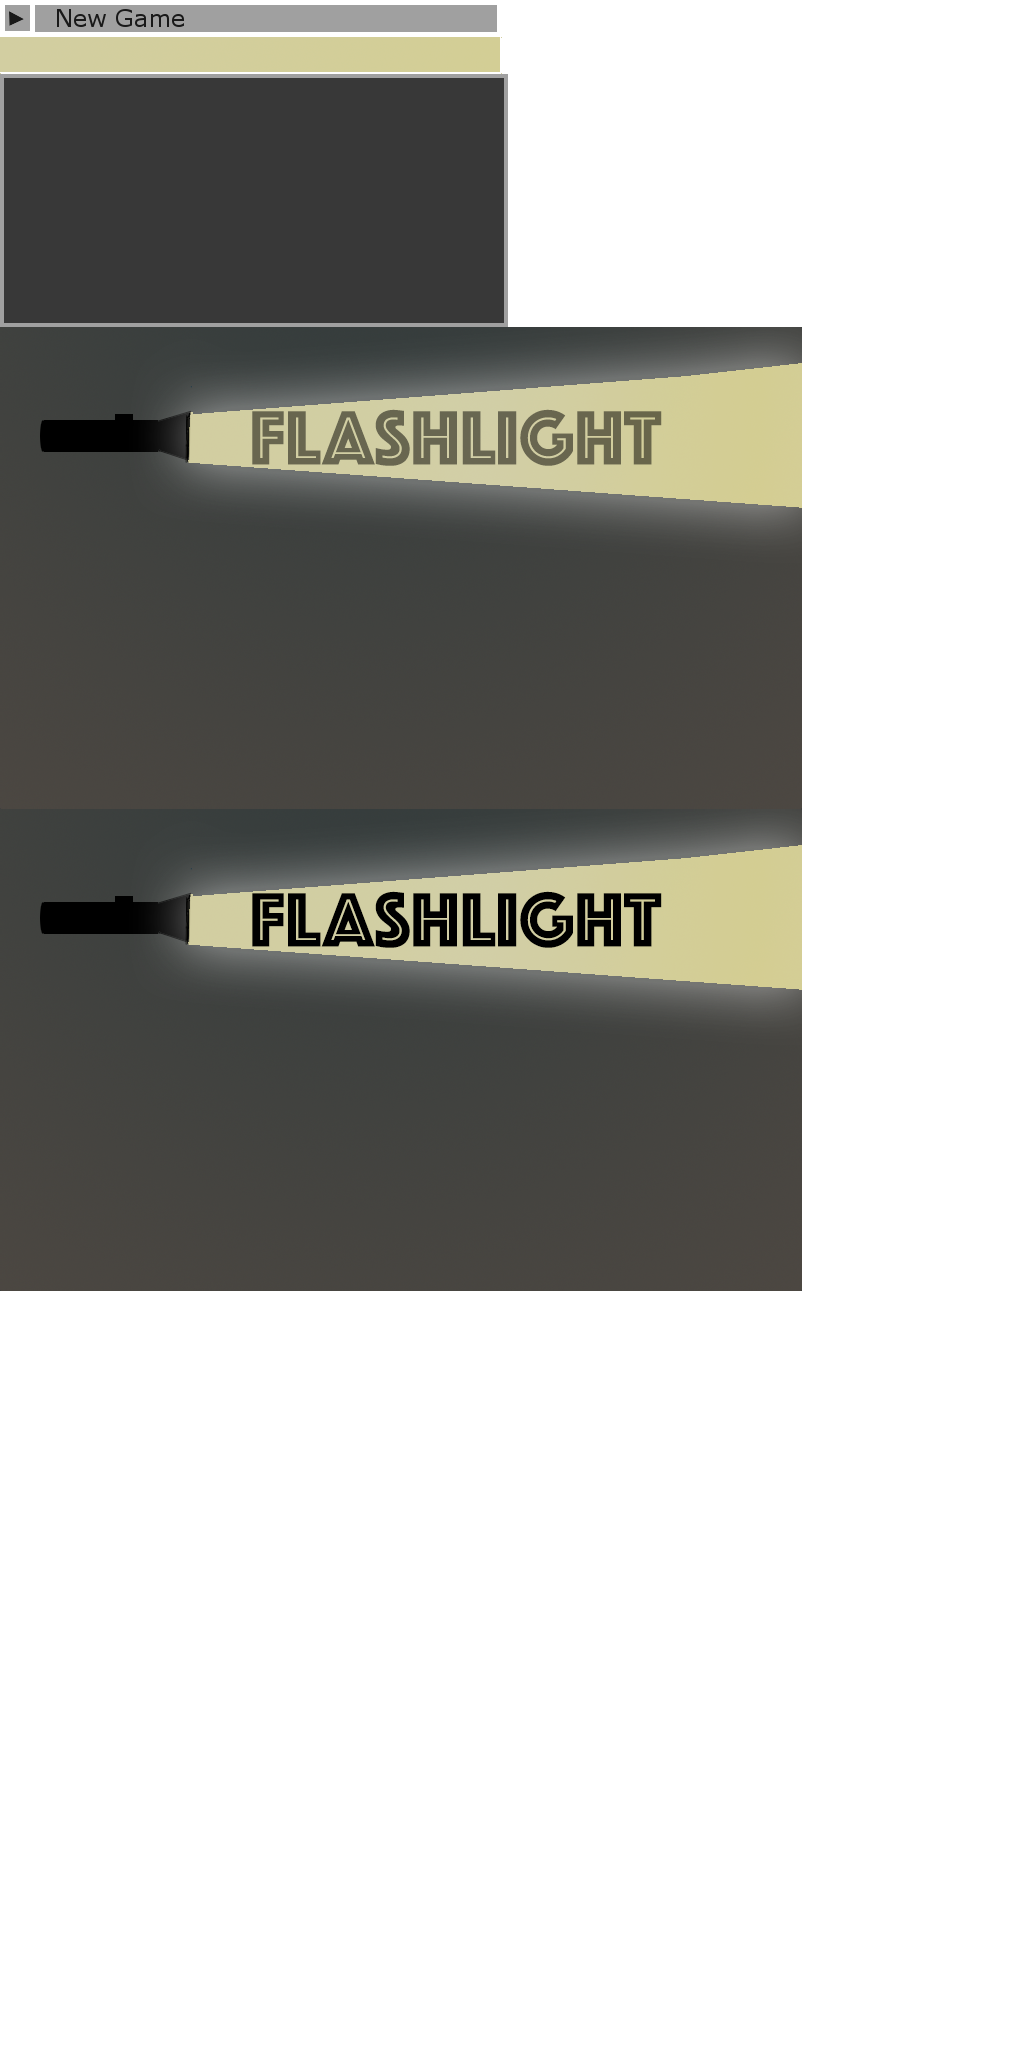
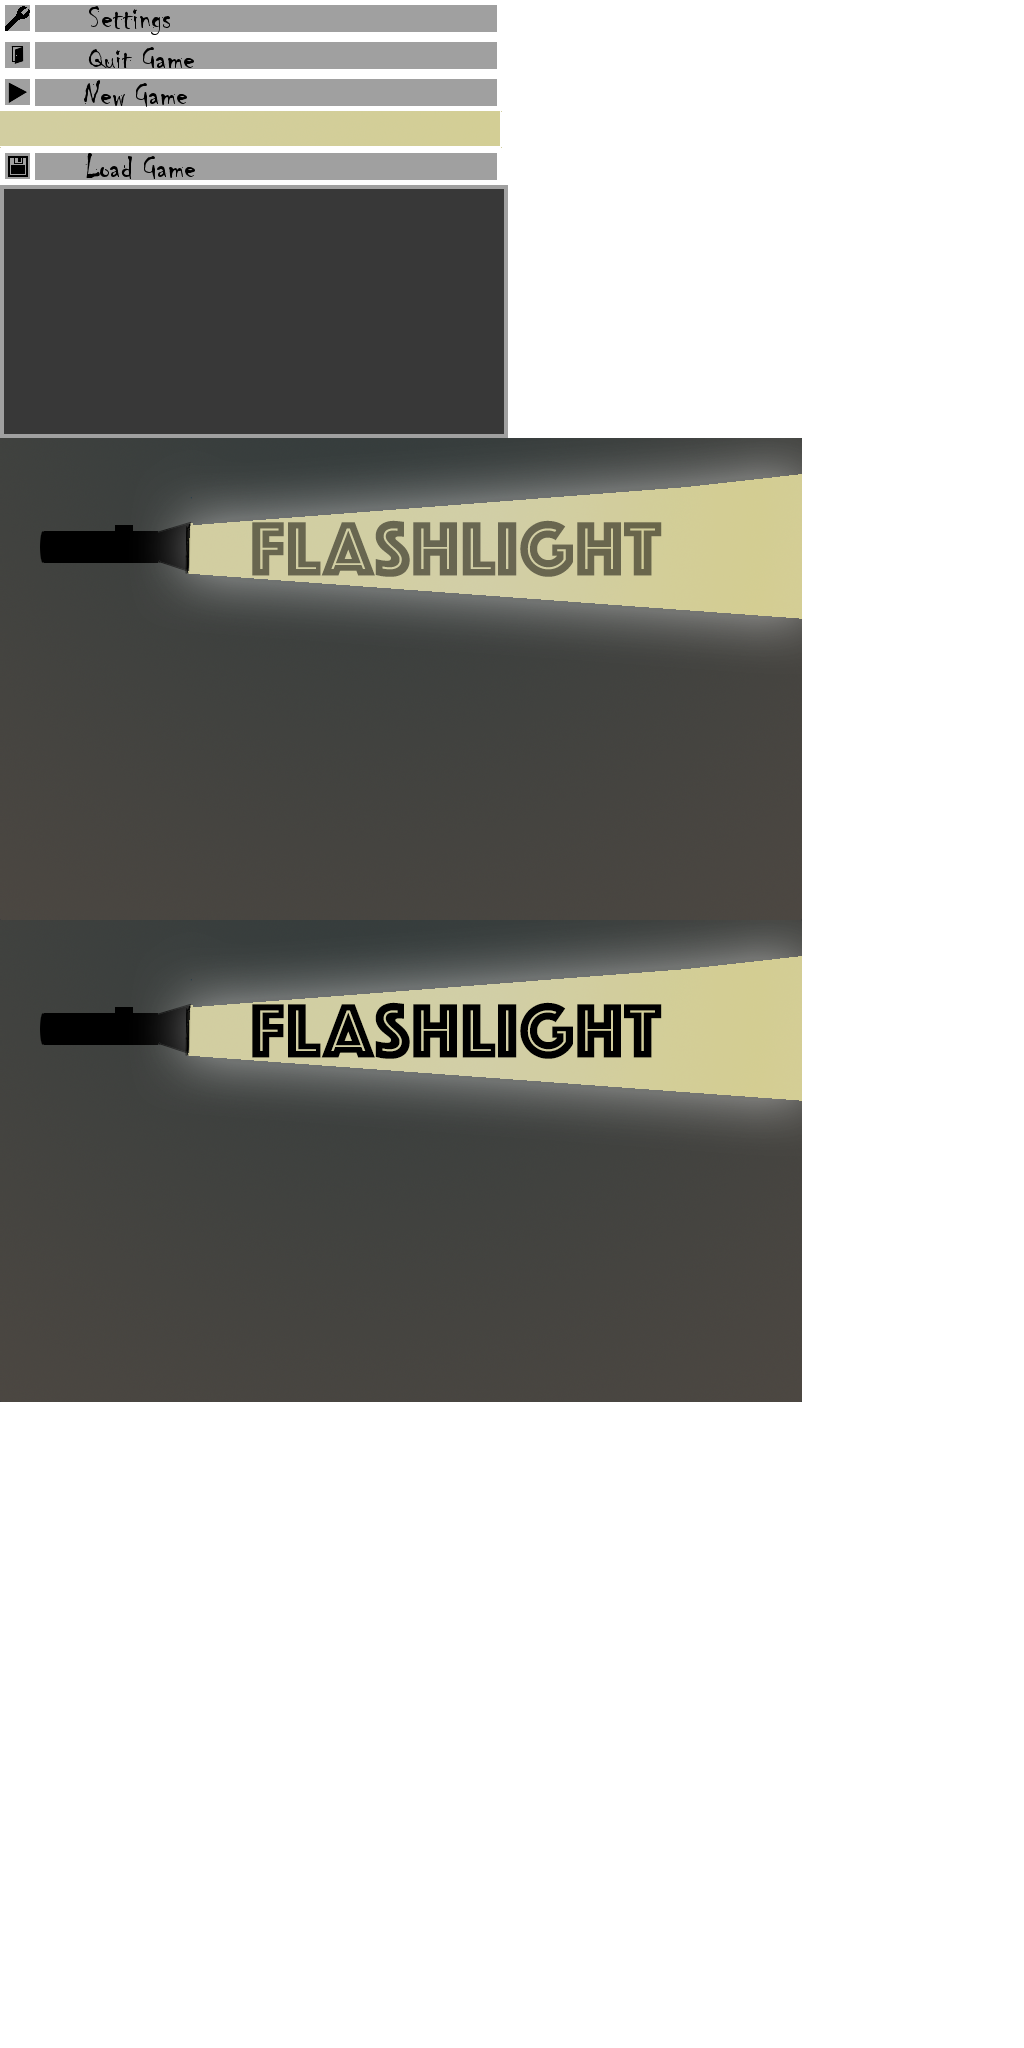
Added all menu item textures and packed. Added proper texture names to menu items.

diff --git a/Projekt/core/src/edu/chl/StureSpook/model/MainMenuModel.java b/Projekt/core/src/edu/chl/StureSpook/model/MainMenuModel.java
@@ -28,8 +28,8 @@ public class MainMenuModel implements GameModel{
 
     @Override
     public void init() {
-        menuItems = new MenuItem [] {new MenuItem("New Game", "newGameMenuItem"), new MenuItem("Load Game", "newGameMenuItem"), 
-            new MenuItem("Options", "newGameMenuItem"), new MenuItem("Quit", "newGameMenuItem")};
+        menuItems = new MenuItem [] {new MenuItem("New Game", "newGameMenuItem"), new MenuItem("Load Game", "loadGameMenuItem"), 
+            new MenuItem("Options", "settingsMenuItem"), new MenuItem("Quit", "quitGameMenuItem")};
         
     }
     
